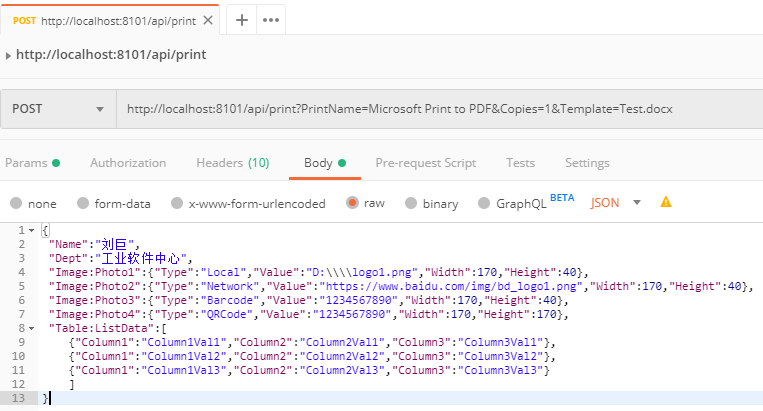
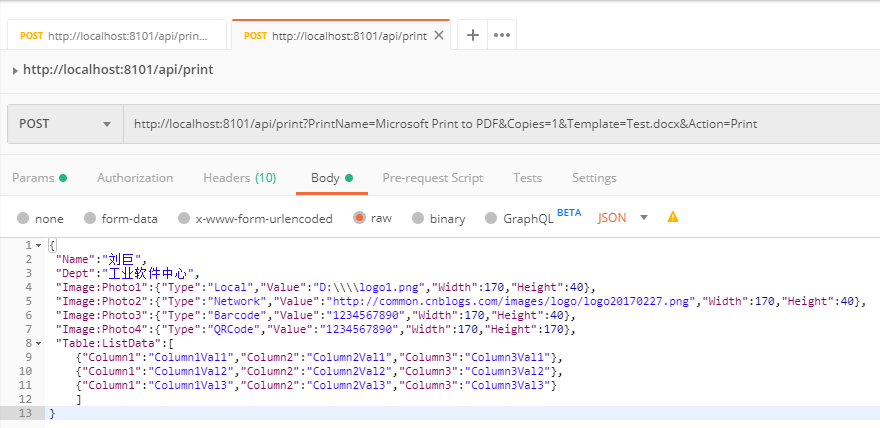
Print

diff --git a/ZEQP.Print.Service/HttpPrintService.cs b/ZEQP.Print.Service/HttpPrintService.cs
@@ -39,32 +39,64 @@ namespace ZEQP.Print.Service
         {
             var request = context.Request;
             var response = context.Response;
-            response.ContentType = "application/json";
+            
             try
             {
                 this.Log.Info(request.Url);
                 var model = this.GetPrintModel(request);
-                //using (var printDoc = new PrintDocument(model))
-                //{
-                //    printDoc.Print();
-                //}
-                using (var printDoc = new MergeDocument(model))
-                {
-                    printDoc.Print();
-                }
                 var dicJson = model.ToJson();
                 this.Log.Info(dicJson);
-                var resBytes = Encoding.UTF8.GetBytes(dicJson);
-                response.StatusCode = 200;
-                response.ContentLength64 = resBytes.Length;
-                response.ContentEncoding = Encoding.UTF8;
-                response.OutputStream.Write(resBytes, 0, resBytes.Length);
+
+                var printDoc = new MergeDocument(model);
+                var xpsStream = printDoc.MergeToStream();
+                if (model.Action == PrintActionType.Print)
+                {
+                    for (int i = 0; i < model.Copies; i++)
+                    {
+                        xpsStream.Seek(0, SeekOrigin.Begin);
+                        XpsPrintHelper.Print(xpsStream, model.PrintName, $"XPS_{i}_{DateTime.Now.ToString("yyMMddHHmmssfff")}", false);
+                    }
+                    var resBytes = Encoding.UTF8.GetBytes(dicJson);
+                    response.ContentType = "application/json";
+                    response.StatusCode = 200;
+                    response.ContentLength64 = resBytes.Length;
+                    response.ContentEncoding = Encoding.UTF8;
+                    response.OutputStream.Write(resBytes, 0, resBytes.Length);
+                }
+                if (model.Action == PrintActionType.File)
+                {
+                    response.ContentType = "application/vnd.ms-xpsdocument";
+                    response.AddHeader("Content-Disposition", $"attachment; filename=XPS_{DateTime.Now.ToString("yyMMddHHmmssfff")}.xps");
+                    response.StatusCode = 200;
+                    response.ContentLength64 = xpsStream.Length;
+                    //response.ContentEncoding = Encoding.UTF8;
+                    xpsStream.Seek(0, SeekOrigin.Begin);
+                    xpsStream.CopyTo(response.OutputStream);
+                }
+                if (model.Action == PrintActionType.PrintAndFile)
+                {
+                    for (int i = 0; i < model.Copies; i++)
+                    {
+                        xpsStream.Seek(0, SeekOrigin.Begin);
+                        XpsPrintHelper.Print(xpsStream, model.PrintName, $"XPS_{i}_{DateTime.Now.ToString("yyMMddHHmmssfff")}", false);
+                    }
+                    response.ContentType = "application/vnd.ms-xpsdocument";
+                    response.AddHeader("Content-Disposition", $"attachment; filename=XPS_{DateTime.Now.ToString("yyMMddHHmmssfff")}.xps");
+                    response.StatusCode = 200;
+                    response.ContentLength64 = xpsStream.Length;
+                    //response.ContentEncoding = Encoding.UTF8;
+                    xpsStream.Seek(0, SeekOrigin.Begin);
+                    xpsStream.CopyTo(response.OutputStream);
+                }
+                xpsStream.Dispose();
+                printDoc.Dispose();
             }
             catch (Exception ex)
             {
                 this.Log.Error(ex.Message, ex);
                 var json = ex.ToJson();
                 var bytes = Encoding.UTF8.GetBytes(json);
+                response.ContentType = "application/json";
                 response.StatusCode = 500;
                 response.ContentLength64 = bytes.Length;
                 response.ContentEncoding = Encoding.UTF8;
@@ -108,46 +140,12 @@ namespace ZEQP.Print.Service
             }
         }
         #region Helper
-        //private Dictionary<string, string> GetContent(HttpListenerRequest request)
-        //{
-        //    var result = new Dictionary<string, string>();
-        //    var method = request.HttpMethod;
-        //    var query = request.Url.Query;
-        //    var dicQuery = this.ToNameValueDictionary(query);
-        //    foreach (var item in dicQuery)
-        //    {
-        //        result.Add(item.Key, item.Value);
-        //    }
-        //    if (method.Equals("POST", StringComparison.CurrentCultureIgnoreCase))
-        //    {
-        //        var body = request.InputStream;
-        //        //var encoding = context.Request.ContentEncoding;
-        //        var encoding = Encoding.UTF8;
-        //        var reader = new System.IO.StreamReader(body, encoding);
-        //        var bodyContent = reader.ReadToEnd();
-        //        if (request.ContentType.IndexOf("application/x-www-form-urlencoded") >= 0)
-        //        {
-        //            var dicBody = this.ToNameValueDictionary(bodyContent);
-        //            foreach (var item in dicBody)
-        //            {
-        //                result.Add(item.Key, item.Value);
-        //            }
-        //        }
-        //        else if (request.ContentType.IndexOf("application/json") >= 0)
-        //        {
-        //            var model = JsonConvert.DeserializeObject<Dictionary<string, object>>(bodyContent);
-        //            foreach (var item in model)
-        //            {
-        //                result.Add(item.Key, item.Value.ToString());
-        //            }
-        //        }
-        //    }
-        //    return result;
-        //}
+
         private PrintModel GetPrintModel(HttpListenerRequest request)
         {
             var result = new PrintModel();
             result.Template = Path.Combine(AppDomain.CurrentDomain.BaseDirectory, "Template", "Default.docx");
+            result.Action = PrintActionType.Print;
             var query = request.Url.Query;
             var dicQuery = this.ToNameValueDictionary(query);
             if (dicQuery.ContainsKey("PrintName")) result.PrintName = dicQuery["PrintName"];
@@ -158,6 +156,7 @@ namespace ZEQP.Print.Service
                 if (File.Exists(tempPath))
                     result.Template = tempPath;
             }
+            if (dicQuery.ContainsKey("Action")) result.Action = (PrintActionType)Enum.Parse(typeof(PrintActionType), dicQuery["Action"]);
             var body = request.InputStream;
             var encoding = Encoding.UTF8;
             var reader = new StreamReader(body, encoding);
@@ -201,35 +200,6 @@ namespace ZEQP.Print.Service
             }
             return dic;
         }
-        //public PrintModel ToPrintModel(Dictionary<string, string> dic)
-        //{
-        //    var result = new PrintModel();
-        //    result.Template = Path.Combine(AppDomain.CurrentDomain.BaseDirectory, "Template", "Default.docx");
-        //    foreach (var item in dic)
-        //    {
-        //        if (item.Key.Equals("PrintName", StringComparison.CurrentCultureIgnoreCase))
-        //        {
-        //            result.PrintName = item.Value;
-        //            continue;
-        //        }
-        //        if (item.Key.Equals("Copies", StringComparison.CurrentCultureIgnoreCase))
-        //        {
-        //            result.Copies = int.Parse(item.Value);
-        //            continue;
-        //        }
-        //        if (item.Key.Equals("Template", StringComparison.CurrentCultureIgnoreCase))
-        //        {
-        //            var tempPath = Path.Combine(AppDomain.CurrentDomain.BaseDirectory, "Template", $"{item.Value}.docx");
-        //            if (File.Exists(tempPath))
-        //                result.Template = tempPath;
-        //            continue;
-        //        }
-        //        result.FieldCotent.Add(item.Key, item.Value);
-        //    }
-        //    if (String.IsNullOrEmpty(result.PrintName))
-        //        result.PrintName = ConfigurationManager.AppSettings["PrintName"];
-        //    return result;
-        //}
         #endregion
     }
 }

diff --git a/ZEQP.Print.Framework/MergeDocument.cs b/ZEQP.Print.Framework/MergeDocument.cs
@@ -27,13 +27,12 @@ namespace ZEQP.Print.Framework
             this.FieldCallback = new PrintFieldMergingCallback(this.Model);
             this.Doc.MailMerge.FieldMergingCallback = this.FieldCallback;
         }
-        public void Print()
+        public Stream MergeToStream()
         {
             if (this.Model.FieldCotent.Count > 0)
                 this.Doc.MailMerge.Execute(this.Model.FieldCotent.Keys.ToArray(), this.Model.FieldCotent.Values.ToArray());
             if (this.Model.ImageContent.Count > 0)
             {
-                //this.Doc.MailMerge.MergeImageField += MailMerge_MergeImageField;
                 this.Doc.MailMerge.Execute(this.Model.ImageContent.Keys.ToArray(), this.Model.ImageContent.Values.Select(s => s.Value).ToArray());
             };
             if (this.Model.TableContent.Count > 0)
@@ -42,22 +41,15 @@ namespace ZEQP.Print.Framework
                 {
                     var table = item.Value;
                     table.TableName = item.Key;
-                    //this.Doc.MailMerge.ExecuteWithRegions()
                     this.Doc.MailMerge.ExecuteWithRegions(table);
                 }
             }
             this.Doc.UpdateFields();
 
             var fileName = Path.Combine(AppDomain.CurrentDomain.BaseDirectory, "PrintDoc", $"{DateTime.Now.ToString("yyMMddHHmmssfff")}.docx");
-            using (var ms = new MemoryStream())
-            {
-                this.Doc.Save(ms, SaveFormat.Xps);
-                for (int i = 0; i < this.Model.Copies; i++)
-                {
-                    ms.Position = 0;
-                    XpsPrintHelper.Print(ms, this.Model.PrintName, $"XPS_{i}_{DateTime.Now.ToString("yyMMddHHmmssfff")}", false);
-                }
-            }
+            var ms = new MemoryStream();
+            this.Doc.Save(ms, SaveFormat.Xps);
+            return ms;
         }
 
         public void Dispose()

diff --git a/ZEQP.Print.Framework/Models/PrintModel.cs b/ZEQP.Print.Framework/Models/PrintModel.cs
@@ -21,7 +21,10 @@ namespace ZEQP.Print.Framework
         /// 模板名称
         /// </summary>
         public string Template { get; set; }
-
+        /// <summary>
+        /// 执行动作
+        /// </summary>
+        public PrintActionType Action { get; set; }
         /// <summary>
         /// 文本字段数据源
         /// </summary>
@@ -69,5 +72,20 @@ namespace ZEQP.Print.Framework
         /// 二维码
         /// </summary>
         QRCode = 4
+    }
+    public enum PrintActionType
+    {
+        /// <summary>
+        /// 打印
+        /// </summary>
+        Print = 0,
+        /// <summary>
+        /// 输出成文件
+        /// </summary>
+        File = 1,
+        /// <summary>
+        /// 打印并输出成文件
+        /// </summary>
+        PrintAndFile = 2
     }
 }
